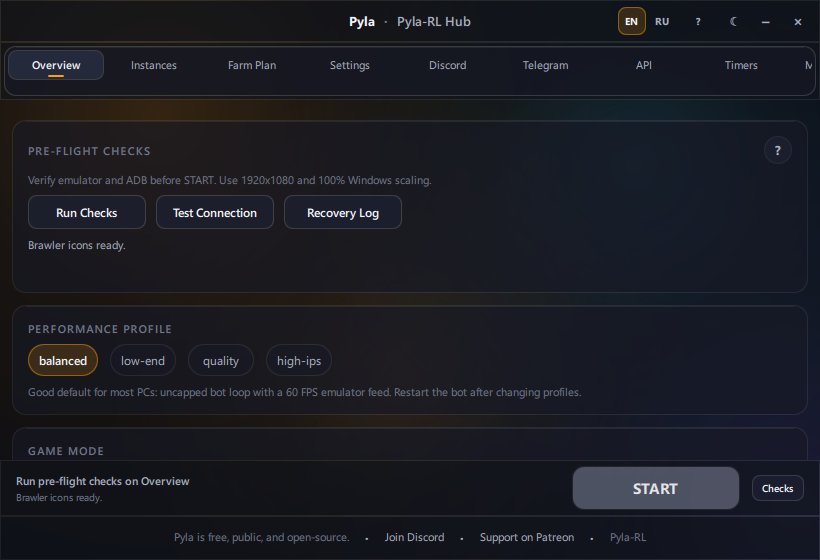
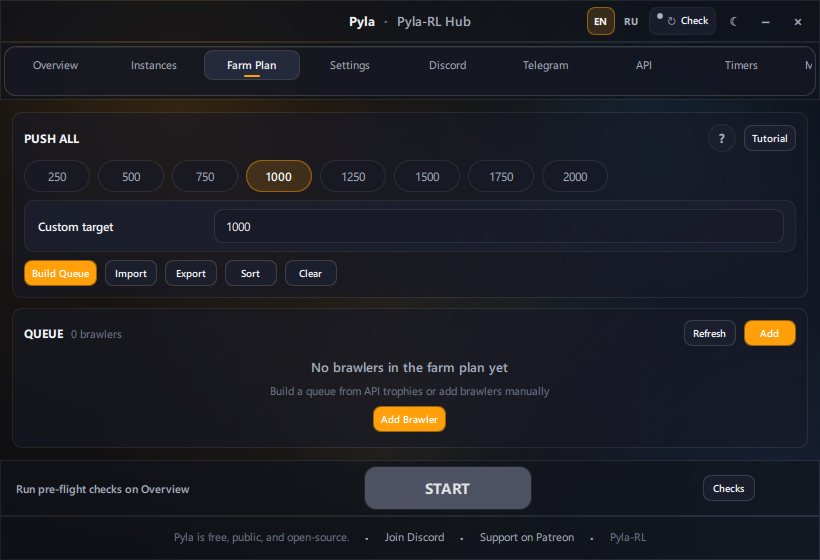
Route update popover to updater.exe and fix screenshot capture.
Remove the GitHub button from the update popover, open Farm Plan via --initial-tab for reliable README shots, and refresh all gallery assets.

diff --git a/app/gui/qml/PylaHub.qml b/app/gui/qml/PylaHub.qml
@@ -48,6 +48,7 @@ ApplicationWindow {
     readonly property int durSlow: animationsEnabled ? 320 : 0
     readonly property var trophyTargetPresets: ["250", "500", "750", "1000", "1250", "1500", "1750", "2000"]
     property string language: (hubState.language !== undefined) ? hubState.language : "en"
+    property string bootTab: (typeof initialTab !== "undefined" && initialTab) ? initialTab : ""
     readonly property var queueSortOptions: [
         { id: "cups_desc", label: root.t("sort.cups_desc") },
         { id: "cups_asc", label: root.t("sort.cups_asc") },
@@ -616,6 +617,9 @@ ApplicationWindow {
         applyTheme()
         reloadState()
         hubStateReady = true
+        if (bootTab !== "") {
+            activeTab = bootTab
+        }
         runAction("ensure-brawler-icons")
         if (settingsOnly) {
             activeTab = "Farm Plan"
@@ -4815,7 +4819,6 @@ ApplicationWindow {
                 width: parent.width
                 HubButton {
                     label: root.t("update.run_updater")
-                    visible: !!(hubState.updateStatus && hubState.updateStatus.hasUpdater)
                     onClicked: {
                         root.runAction("launch-updater")
                         updatePopover.close()
@@ -4826,14 +4829,6 @@ ApplicationWindow {
                     secondary: true
                     onClicked: {
                         root.runAction("refresh-update-status")
-                        updatePopover.close()
-                    }
-                }
-                HubButton {
-                    label: root.t("common.check_updates")
-                    secondary: true
-                    onClicked: {
-                        root.runAction("check-updates")
                         updatePopover.close()
                     }
                 }

diff --git a/app/tools/capture_readme_assets.py b/app/tools/capture_readme_assets.py
@@ -12,6 +12,7 @@ from pathlib import Path
 ROOT = Path(__file__).resolve().parent.parent
 ASSETS_DIR = ROOT / "docs" / "assets"
 MAX_WIDTH = 1280
+HUB_STARTUP_SECONDS = 4.0
 
 user32 = ctypes.windll.user32
 gdi32 = ctypes.windll.gdi32
@@ -51,33 +52,6 @@ def find_windows(title_substring: str) -> list[tuple[int, str]]:
     user32.EnumWindows(enum_proc, 0)
     matches.sort(key=lambda item: len(item[1]))
     return matches
-
-
-def focus_and_click(hwnd: int, x_offset: int, y_offset: int) -> None:
-    rect = RECT()
-    user32.GetWindowRect(hwnd, ctypes.byref(rect))
-    x = rect.left + x_offset
-    y = rect.top + y_offset
-    user32.SetForegroundWindow(hwnd)
-    time.sleep(0.2)
-    user32.SetCursorPos(x, y)
-    time.sleep(0.05)
-    user32.mouse_event(0x0002, 0, 0, 0, 0)
-    user32.mouse_event(0x0004, 0, 0, 0, 0)
-    time.sleep(0.5)
-
-
-def click_hub_tab(hwnd: int, tab: str) -> None:
-    # Offsets tuned for the default hub window size (~820x560).
-    offsets = {
-        "overview": (120, 88),
-        "instances": (205, 88),
-        "farm-plan": (300, 88),
-    }
-    key = tab.lower().replace(" ", "-")
-    if key not in offsets:
-        raise ValueError(f"Unsupported hub tab: {tab}")
-    focus_and_click(hwnd, *offsets[key])
 
 
 def capture_hwnd(hwnd: int):
@@ -148,19 +122,32 @@ def capture_window_title(title_substring: str, output_name: str, wait_seconds: f
     if hwnd is None:
         raise RuntimeError(f"No visible window matching '{title_substring}' within {wait_seconds:.0f}s")
 
-    time.sleep(0.4)
+    time.sleep(0.6)
     image = capture_hwnd(hwnd)
     path = save_asset(image, output_name)
     print(f"Saved {path} ({image.width}x{image.height}) from hwnd={hwnd}")
     return path
 
 
-def launch_hub() -> subprocess.Popen:
+def launch_hub(initial_tab: str | None = None) -> subprocess.Popen:
+    cmd = [sys.executable, "-m", "gui.qml_hub"]
+    if initial_tab:
+        cmd.extend(["--initial-tab", initial_tab])
     return subprocess.Popen(
-        [sys.executable, "-m", "gui.qml_hub"],
+        cmd,
         cwd=str(ROOT),
         creationflags=subprocess.CREATE_NEW_PROCESS_GROUP if sys.platform == "win32" else 0,
     )
+
+
+def stop_process(process: subprocess.Popen | None) -> None:
+    if process is None or process.poll() is not None:
+        return
+    process.terminate()
+    try:
+        process.wait(timeout=3)
+    except subprocess.TimeoutExpired:
+        process.kill()
 
 
 def launch_control_window() -> subprocess.Popen:
@@ -169,7 +156,7 @@ def launch_control_window() -> subprocess.Popen:
     state_path = state_dir / "readme_capture_control.state"
     metrics_path = state_dir / "readme_capture_metrics.json"
     metrics_path.write_text(
-        '{"ips": 24.5, "feed_fps": 58.0, "history": [20,22,24,25], '
+        '{"ips": 24.5, "feed_fps": 58.0, "history": [20,22,24,25,26,24], '
         '"session": {"uptime_s": 3600, "state": "lobby", "brawler": "nita", '
         '"target": "1000", "trophies": 842, "session_wins": 3, "session_losses": 1, "notice": "Running"}}',
         encoding="utf-8",
@@ -181,49 +168,29 @@ def launch_control_window() -> subprocess.Popen:
     )
 
 
-def countdown(message: str, seconds: int) -> None:
-    print(message)
-    for remaining in range(seconds, 0, -1):
-        print(f"  Capturing in {remaining}s...", end="\r", flush=True)
-        time.sleep(1)
-    print(" " * 40, end="\r")
-
-
-def capture_target(target: str, wait_seconds: float, launch: bool) -> Path:
-    processes: list[subprocess.Popen] = []
+def capture_hub_asset(output_name: str, initial_tab: str | None, wait_seconds: float, launch: bool) -> Path:
+    hub_process = None
     try:
-        if target in {"hub-overview", "hub-farm-plan"} and launch:
-            print("Launching Pyla-RL Hub...")
-            processes.append(launch_hub())
-            time.sleep(3.0)
-
-        if target == "hub-overview":
-            return capture_window_title("Pyla-RL Hub", "hub-overview.png", wait_seconds=wait_seconds)
-
-        if target == "hub-farm-plan":
-            windows = find_windows("Pyla-RL Hub")
-            if windows:
-                click_hub_tab(windows[0][0], "farm-plan")
-            else:
-                countdown("Switch the Hub to the Farm Plan tab now.", seconds=8)
-            return capture_window_title("Pyla-RL Hub", "hub-farm-plan.png", wait_seconds=wait_seconds)
-
-        if target == "control-window":
-            if launch:
-                print("Launching Pyla-RL Control window...")
-                processes.append(launch_control_window())
-                time.sleep(2.0)
-            return capture_window_title("Pyla-RL Control", "control-window.png", wait_seconds=wait_seconds)
-
-        raise ValueError(f"Unknown target: {target}")
+        if launch:
+            label = initial_tab or "Overview"
+            print(f"Launching Pyla-RL Hub ({label})...")
+            hub_process = launch_hub(initial_tab)
+            time.sleep(HUB_STARTUP_SECONDS)
+        return capture_window_title("Pyla-RL Hub", output_name, wait_seconds=wait_seconds)
     finally:
-        for process in processes:
-            if process.poll() is None:
-                process.terminate()
-                try:
-                    process.wait(timeout=3)
-                except subprocess.TimeoutExpired:
-                    process.kill()
+        stop_process(hub_process)
+
+
+def capture_control_asset(wait_seconds: float, launch: bool) -> Path:
+    control = None
+    try:
+        if launch:
+            print("Launching Pyla-RL Control window...")
+            control = launch_control_window()
+            time.sleep(2.5)
+        return capture_window_title("Pyla-RL Control", "control-window.png", wait_seconds=wait_seconds)
+    finally:
+        stop_process(control)
 
 
 def main() -> None:
@@ -255,51 +222,15 @@ def main() -> None:
     )
 
     saved: list[Path] = []
-    hub_process = None
     try:
-        if launch and any(item.startswith("hub-") for item in targets):
-            print("Launching Pyla-RL Hub...")
-            hub_process = launch_hub()
-            time.sleep(3.0)
-
-        for index, target in enumerate(targets):
-            if target.startswith("hub-"):
-                if target == "hub-farm-plan":
-                    windows = find_windows("Pyla-RL Hub")
-                    if windows:
-                        click_hub_tab(windows[0][0], "farm-plan")
-                    else:
-                        countdown("Switch the Hub to the Farm Plan tab now.", seconds=8)
-                saved.append(
-                    capture_window_title("Pyla-RL Hub", f"{target}.png", wait_seconds=args.wait)
-                )
+        for target in targets:
+            if target == "hub-overview":
+                saved.append(capture_hub_asset("hub-overview.png", None, args.wait, launch))
+            elif target == "hub-farm-plan":
+                saved.append(capture_hub_asset("hub-farm-plan.png", "Farm Plan", args.wait, launch))
             elif target == "control-window":
-                control = None
-                if launch:
-                    print("Launching Pyla-RL Control window...")
-                    control = launch_control_window()
-                    time.sleep(2.0)
-                try:
-                    saved.append(
-                        capture_window_title("Pyla-RL Control", "control-window.png", wait_seconds=args.wait)
-                    )
-                finally:
-                    if control and control.poll() is None:
-                        control.terminate()
-                        try:
-                            control.wait(timeout=3)
-                        except subprocess.TimeoutExpired:
-                            control.kill()
-
-        if hub_process and hub_process.poll() is None:
-            hub_process.terminate()
-            try:
-                hub_process.wait(timeout=3)
-            except subprocess.TimeoutExpired:
-                hub_process.kill()
+                saved.append(capture_control_asset(args.wait, launch))
     except Exception as exc:
-        if hub_process and hub_process.poll() is None:
-            hub_process.terminate()
         raise SystemExit(str(exc)) from exc
 
     print("Captured:")

diff --git a/app/gui/qml_hub.py b/app/gui/qml_hub.py
@@ -75,6 +75,7 @@ class QmlHub:
             correct_zoom=True,
             on_close_callback=None,
             settings_only=False,
+            initial_tab="",
     ):
         os.environ.setdefault("QT_LOGGING_RULES", "qt.qpa.window=false")
         ensure_pyside6_available()
@@ -1171,6 +1172,7 @@ class QmlHub:
         self.correct_zoom = correct_zoom
         self.on_close_callback = on_close_callback
         self.settings_only = settings_only
+        self.initial_tab = str(initial_tab or "").strip()
         self.started = False
 
         app = QGuiApplication.instance()
@@ -1236,6 +1238,7 @@ class QmlHub:
         context.setContextProperty("hubVersion", self.version_str)
         context.setContextProperty("latestVersion", self.latest_version_str or "")
         context.setContextProperty("correctZoom", self.correct_zoom)
+        context.setContextProperty("initialTab", self.initial_tab)
         context.setContextProperty("hubBrand", {
             "productName": brand.PRODUCT_NAME,
             "freeNotice": brand.FREE_NOTICE,
@@ -1289,9 +1292,14 @@ def main():
         action="store_true",
         help="Open settings without starting the bot (for use during an active session).",
     )
+    parser.add_argument(
+        "--initial-tab",
+        default="",
+        help="Open directly on a Hub tab (e.g. 'Farm Plan'). Used by screenshot capture.",
+    )
     args = parser.parse_args()
     version = str(load_toml_as_dict("cfg/general_config.toml").get("pyla_version", "0.8.1"))
-    QmlHub(version, version, settings_only=args.settings_only)
+    QmlHub(version, version, settings_only=args.settings_only, initial_tab=args.initial_tab)
 
 
 if __name__ == "__main__":

diff --git a/app/docs/tutorials/ru/overview-and-start.md b/app/docs/tutorials/ru/overview-and-start.md
@@ -34,7 +34,7 @@
 
 - установленной версией и локальным/последним SHA коммита;
 - **Запустить обновление** (запускает `updater.exe`, если он есть);
-- **Обновить** и **Релизы на GitHub**.
+- **Обновить** статус.
 
 Если индикатор сообщает о доступном обновлении, используйте `update.exe` / `update.cmd` из папки установки.
 

diff --git a/app/docs/assets/README.md b/app/docs/assets/README.md
@@ -22,4 +22,6 @@ Options:
 - `--no-launch` — capture from already-open windows
 - `--wait 25` — seconds to wait for each window
 
+Farm Plan uses `gui.qml_hub --initial-tab "Farm Plan"` so the correct tab is shown (mouse offsets are unreliable).
+
 Prerequisites for clean Hub shots: `license_accepted = "yes"` and `first_run_wizard = "no"` in local `cfg/general_config.toml` (do not commit local config).

diff --git a/app/docs/tutorials/overview-and-start.md b/app/docs/tutorials/overview-and-start.md
@@ -34,7 +34,7 @@ The Hub header shows an **update pill** next to the language toggle (EN/RU). It 
 
 - Installed version and local vs latest commit SHAs
 - **Run updater** (launches `updater.exe` when present)
-- **Refresh** and **GitHub releases**
+- **Refresh** status
 
 Use `update.exe` / `update.cmd` from the install folder if the pill reports an update is available.
 
